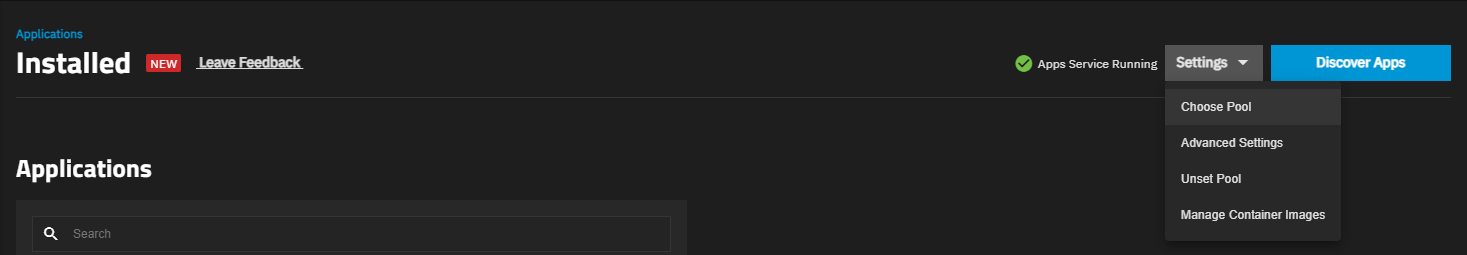
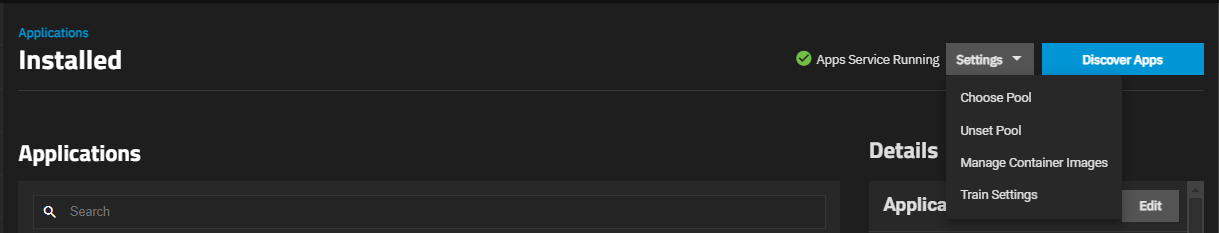
PD-1356 Update with BETA.1 UI Changes
This commit changes content and screenshots based on the changes added to the BETA.1-INTERNAL-1 build.
Charts train is now just Stable.
Settings menu has Manage Container Images restored as an option.
Edit Catalog screen shows checkboxes for the trains now. It is not showing the enterprise train yet, shows as test for now. Expected changes in RC1 to add enterprise train.

diff --git a/content/SCALE/SCALEUIReference/Apps/_index.md b/content/SCALE/SCALEUIReference/Apps/_index.md
@@ -52,14 +52,14 @@ Selecting the checkbox on an app row shows the **[Bulk Actions](#bulk-actions)**
 The checkbox to the left of **Applications** selects all installed apps.
 
 ## Settings Menu
-
-**Settings** at the top of the **Installed** applications displays global options that apply to all applications.
+**Settings** on the **Installed** applications header displays global options that apply to all applications. 
 
 * **Choose Pool** opens the **[Choose a pool for Apps](#choose-a-pool-for-apps-dialog)** dialog.
 * **Unset Pool** shows after setting a pool for applications to use. It opens the **Unset Pool** dialog.
-* **[Train Settings](#train-settings)** opens the **Edit Catalog** screen. Use to add or remove other trains to the **Stable** catalog of applications.
-<!-- commenting out until the Manage Container Image option is back on this menu, then replace this image with new. 
-{{< trueimage src="/images/SCALE/Apps/AppsInstalledAppsSettingOptions.png" alt="Installed Applications Screen Settings" id="Installed Applications Screen Settings" >}}-->
+* **Manage Container Images** opens the [**Manage Container Images**](#manage-container-images) screen.
+* **[Train Settings](#train-settings)** opens the **Edit Catalog** screen. Use to add or remove other trains to the **Stable** catalog of applications. <!-- more changes coming in RC -->
+
+{{< trueimage src="/images/SCALE/Apps/AppsInstalledAppsSettingOptions.png" alt="Installed Applications Screen Settings" id="Installed Applications Screen Settings" >}}
 
 ### Choose a Pool for Apps
 **Choose Pool**  opens the **Choose a pool for apps** dialog. The **Pool** dropdown list shows a list of available pools on the system.
@@ -67,25 +67,21 @@ The checkbox to the left of **Applications** selects all installed apps.
 
 {{< trueimage src="/images/SCALE/Apps/AppsChoosePoolForApps.png" alt="Apps Choose a Pool for Apps" id="Apps Choose a Pool for Apps" >}}
 
-### Train Settings
-
+### Train Settings <!-- comment out more image changes expected in RC1. -->  
 **Train Settings** opens the **Edit Catalog** screen.
-<!-- comment out image until this screen gets updated, tomorrow? 
-{{< trueimage src="/images/SCALE/Apps/AppsEditCatalogScreen.png" alt="Apps Edit Catalog" id="Apps Edit Catalog" >}} -->
+
+{{< trueimage src="/images/SCALE/Apps/AppsEditCatalogScreen.png" alt="Apps Edit Catalog" id="Apps Edit Catalog" >}}
 
 Enter the train name in **Preferred Train** to add another train to the **Stable** applications catalog.
-Train options are **charts** the default train for official apps, **community** for community proposed and maintained apps, and **enterprise** for apps verified and simplified for Enterprise users.
+Train options are **stable** the default train for official apps, **community** for community proposed and maintained apps, and **enterprise** for apps verified and simplified for Enterprise users.
 
 ### Unset Pool
-
 **Unset Pool** on the **Settings** menu opens the **Unset Pool** dialog. Click **Unset** to unset the pool and turn off the application service.
 When complete, a **Success** dialog displays.
 
 {{< trueimage src="/images/SCALE/Apps/AppsUnsetPoolDialog.png" alt="Apps Unset Pool" id="Apps Unset Pool" >}}
 
-<!-- Commenting out until it get into the UI, it is added to nightly but not yet in UI
 ### Manage Container Images
-
 This screen displays all container images currently downloaded on TrueNAS.
 
 {{< trueimage src="/images/SCALE/Apps/AppsManageContainerImages.png" alt="Apps Manage Container Images" id="Apps Manage Container Images" >}}
@@ -107,10 +103,9 @@ The **Pull Image** button opens a side panel with options to download specific i
 | **Docker Registry Authentication** | Optional. Only needed for private images. |
 | **Username** | User account name to access a private Docker image. |
 | **Password** | User account password to access a private Docker image. |
-{{< /truetable >}} -->
+{{< /truetable >}} 
 
 ### Bulk Actions
-
 The **Bulk Action** dropdown list allows you to apply actions to one or more applications installed and running on your system.  
 Options are **Start All Selected**, **Stop All Selected**, **Upgrade All Selected**, and **Delete All Selected**.
 
@@ -134,7 +129,6 @@ The **Application Info** widget shows the name, version number, date last update
 **[Update](#update-apps)** opens a window for the application showing the current version and the new version the upgrade installs.
 
 #### Delete Apps
-
 The **Delete** dialog asks for confirmation to delete the selected application.
 
 {{< trueimage src="/images/SCALE/Apps/AppsDeleteAppDialog.png" alt="Delete Application Dialog" id="Delete Application Dialog" >}}
@@ -193,7 +187,6 @@ The **Pod Logs** screen opens a shell displaying logs for the selected installed
 Each **Pod Log** screen includes a banner with the **Application Name**, **Pod Name** and **Container Name**.
 -->
 ### Application Metadata Widget
-
 The **Application Metadata** widget shows application capabilities unique to the application, and **Run As Content** showing the user and group IDs, the default user and group name, and brief description for the application. 
 **View More** expands the widget to show more information on application settings.
 **Collapse** hides the extra information.
@@ -232,8 +225,8 @@ You can enter a new setting in fields that include a preprogrammed default.
 {{< include file="/static/includes/AppsInstallWizardSettings.md" >}}
 
 ## Discover Apps Screen
-
-The **Discover** screen displays application widgets for the official TrueNAS **charts** train by default. Users can add the **Community** and **Enterprise** train applications on the **[Edit Catalog](#edit-catalog-screen)** screen. First-time SCALE installation includes the **Chart** catalog train.
+The **Discover** screen displays application widgets for the official TrueNAS **stable** train by default.
+Users can add the **Community** and **Enterprise** train applications on the **[Edit Catalog](#edit-catalog-screen)** screen.
 
 {{< trueimage src="/images/SCALE/Apps/AppsDiscoverScreen.png" alt="Applications Discover Screen" id="Applications Discover Screen" >}}
 
